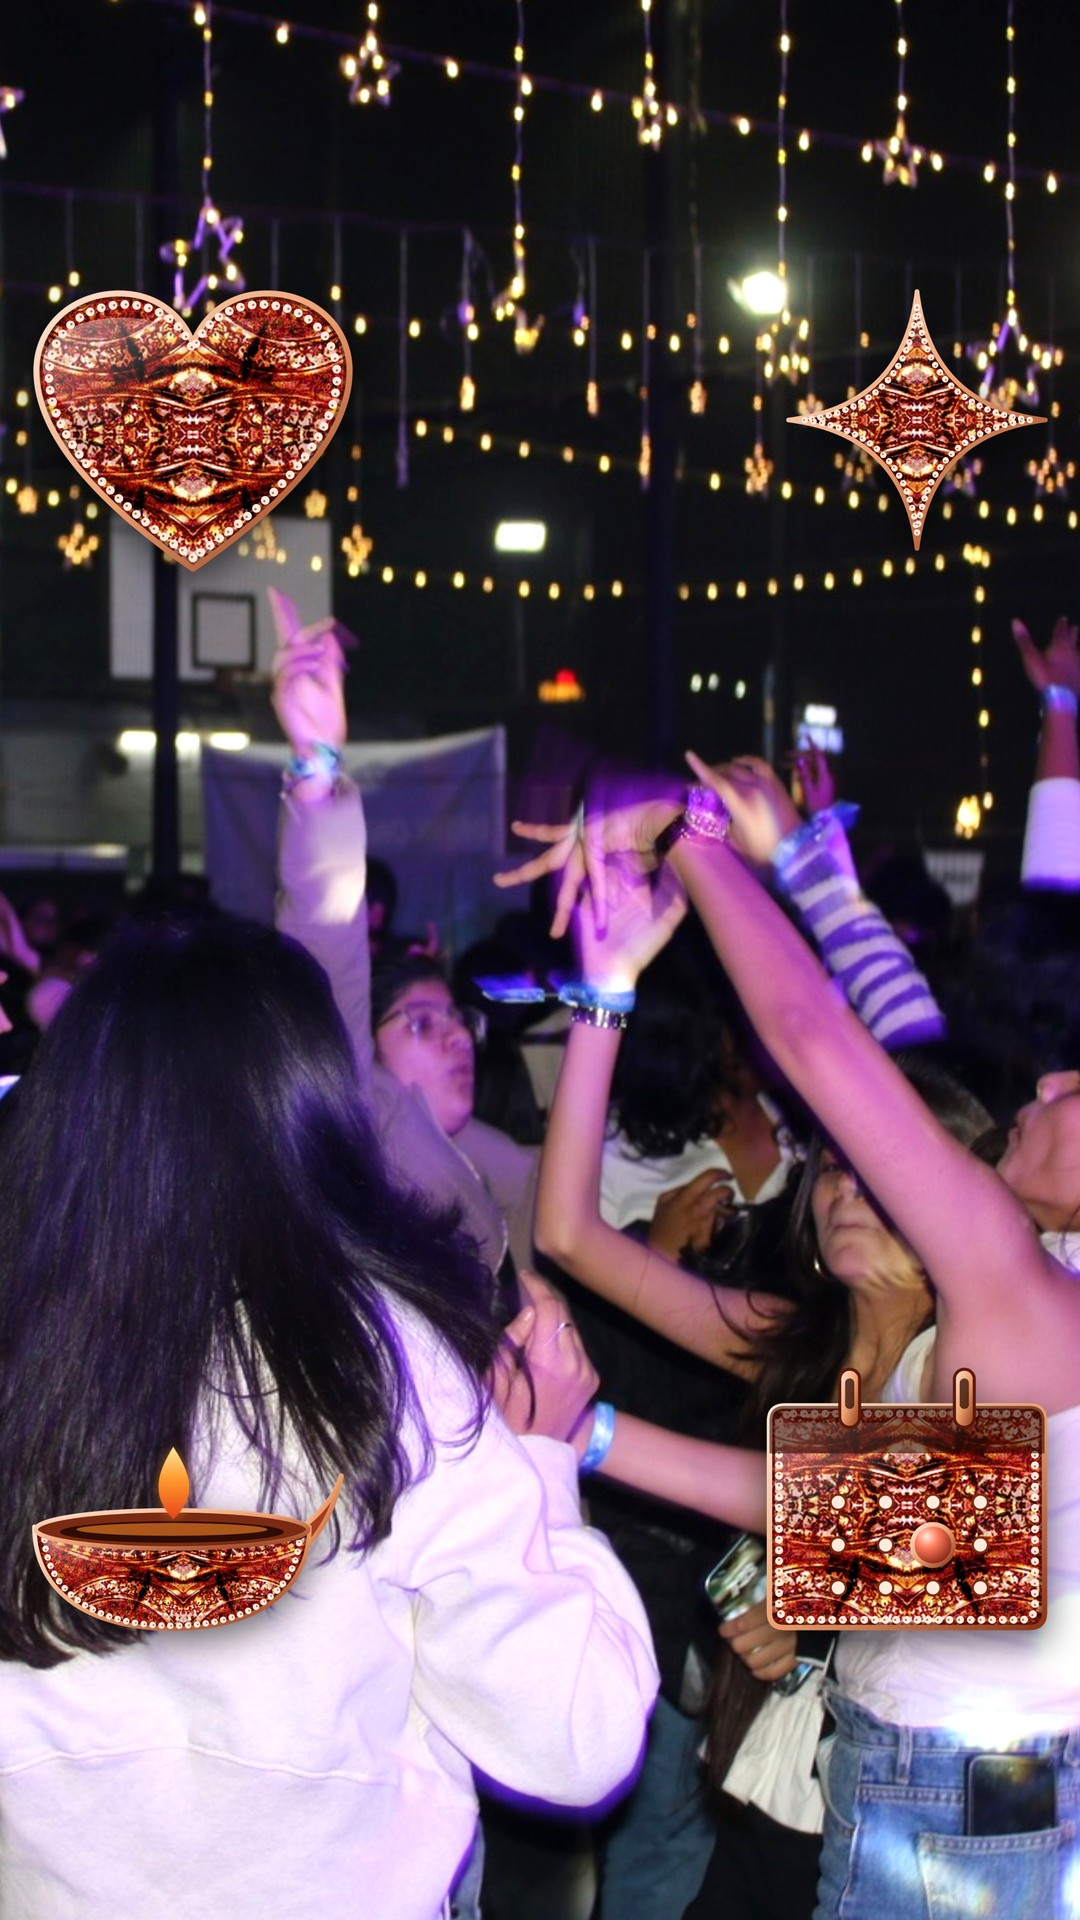
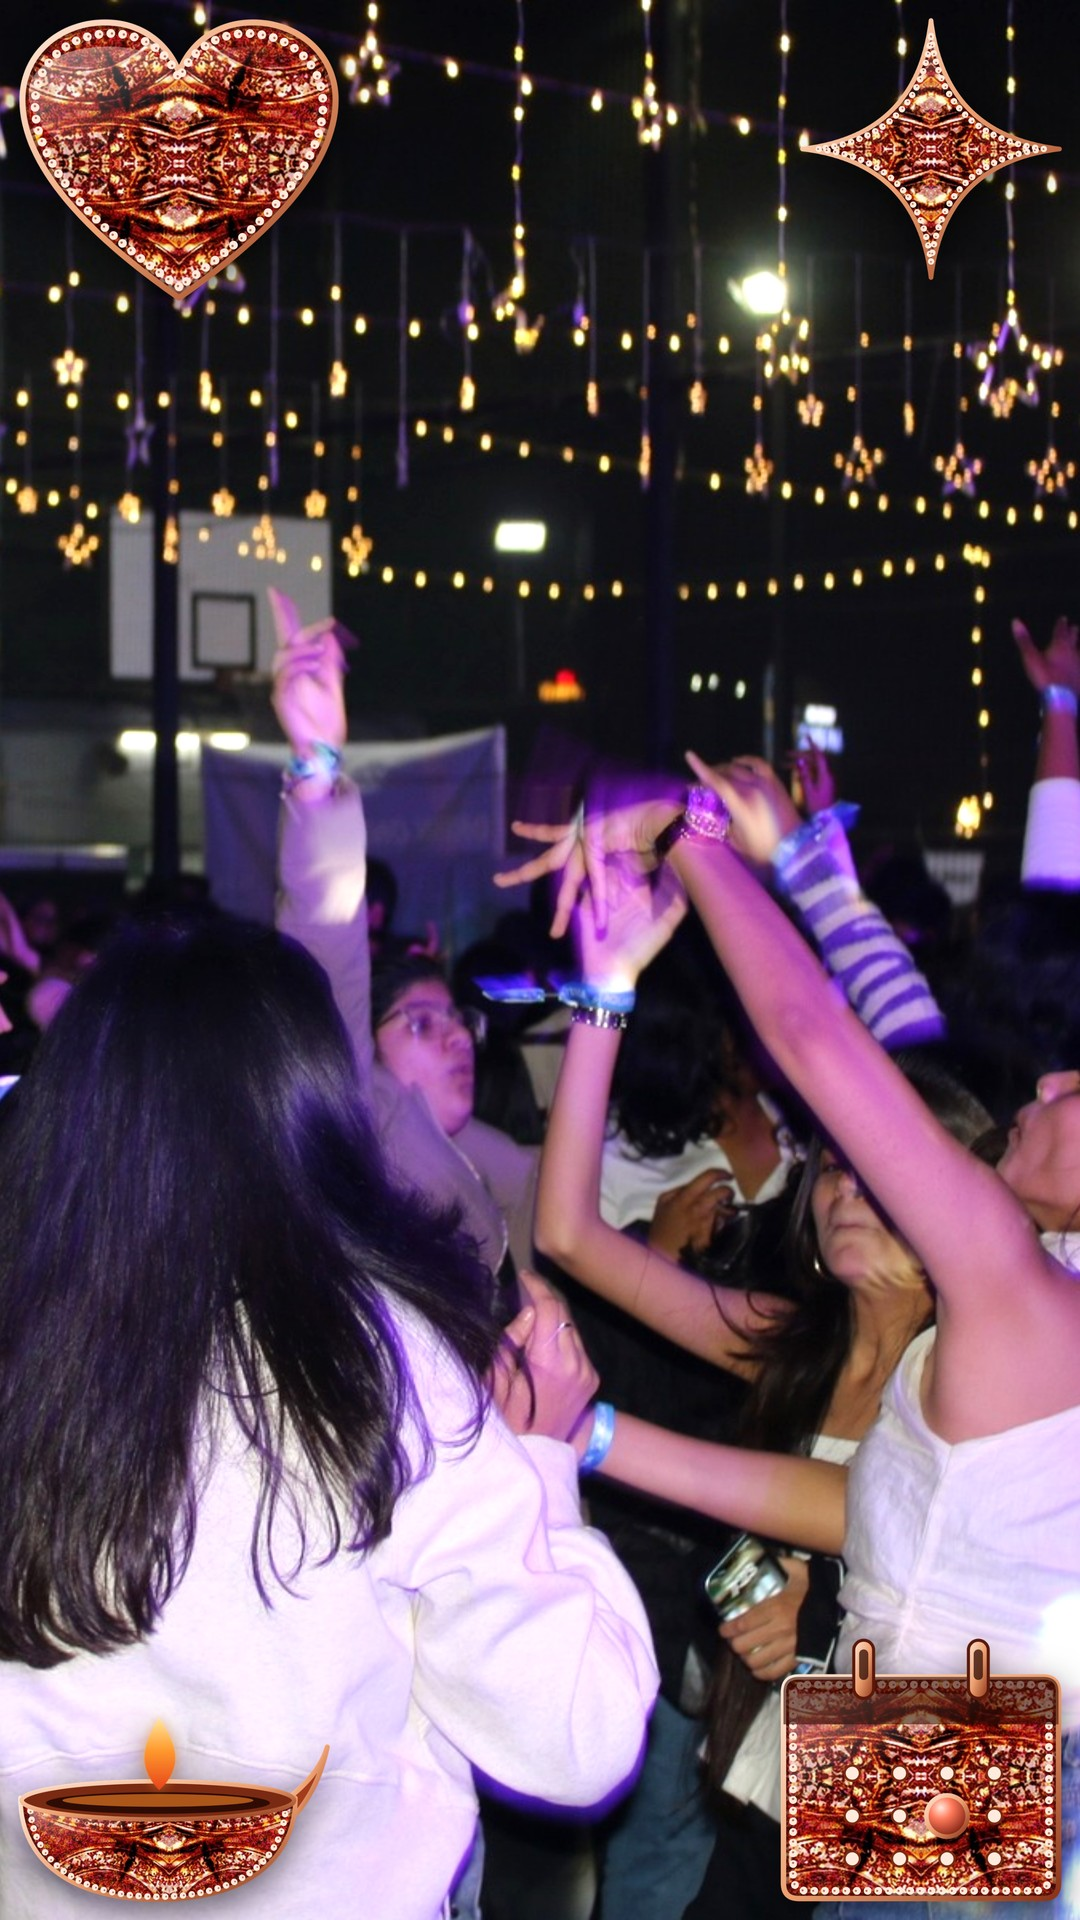
Reel covers: stickers in the extreme corners
Claude-Session: https://claude.ai/code/session_01Hjb3YaRSXHq2cS1Nop5i5P

diff --git a/scratchpad/reel_covers_stickers.py b/scratchpad/reel_covers_stickers.py
@@ -1,5 +1,5 @@
 """Reel covers (1080x1920) from two supplied photos: the photo full bleed, nothing else but four copper stickers, one in each corner.
-No text, logo or branding on the cover. Stickers sit in the corners of the 4:5 grid crop (y 285..1635) so they survive the profile-grid crop.
+No text, logo or branding on the cover. Stickers sit in the EXTREME corners of the full canvas (14px in). The 4:5 profile-grid crop (y 285..1635) cuts the top and bottom pair; the reel itself shows them.
 Cover A (crowd): heart / star / diya / calendar.  Cover B (tree): star / diya / heart / pin.  Sticker art: sample_outputs/disco_diwali_stickers/ (rotation baked in, no drop shadow in the PNG; one is added here).
 CONSENT: the crowd photo shows apparent minors and there is no consent record. Check before posting.
 Run: PYTHONIOENCODING=utf-8 python scratchpad/reel_covers_stickers.py"""
@@ -10,7 +10,7 @@ def load(n):
     s = importlib.util.spec_from_file_location(n, os.path.join(ED, n + ".py")); m = importlib.util.module_from_spec(s); s.loader.exec_module(m); return m
 B = load("build")
 from PIL import Image
-W, H = 1080, 1920; SAFE_T, SAFE_B, EDGE = 285, 1635, 28
+W, H = 1080, 1920; SAFE_T, SAFE_B, EDGE = 14, H - 14, 14
 OUT = os.path.join(ROOT, "out", "reel_covers")
 def uri(img):
     b = io.BytesIO(); img.save(b, "PNG" if img.mode == "RGBA" else "JPEG", **({} if img.mode == "RGBA" else {"quality": 92}))
